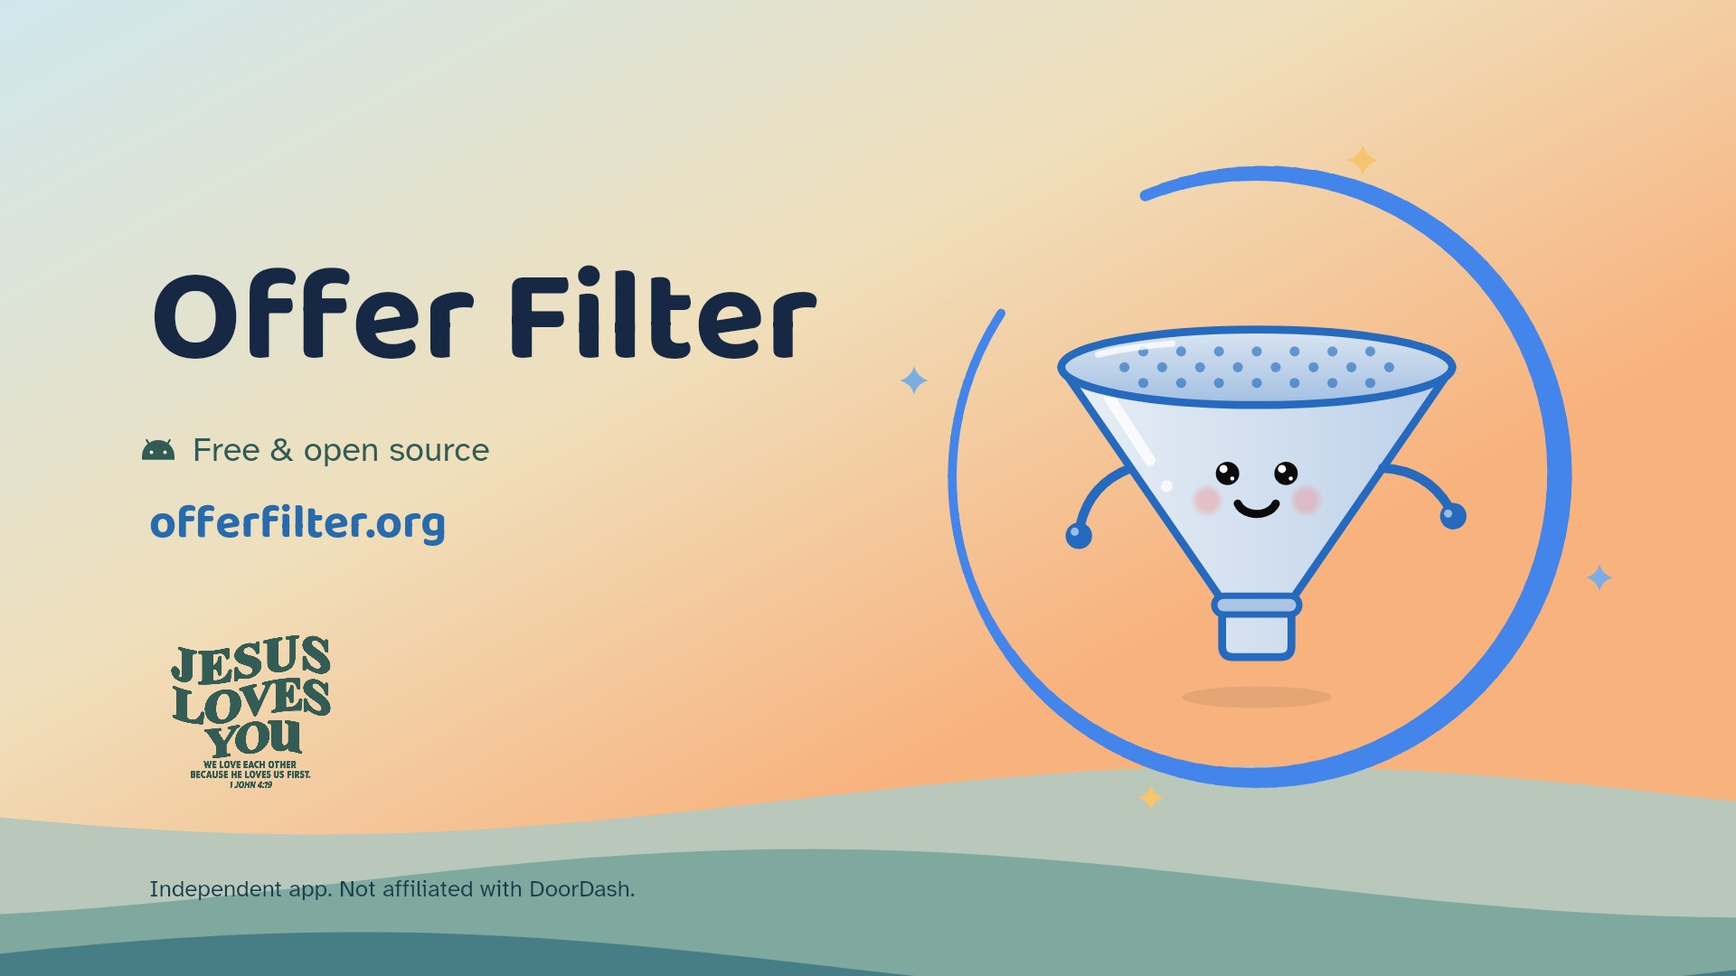
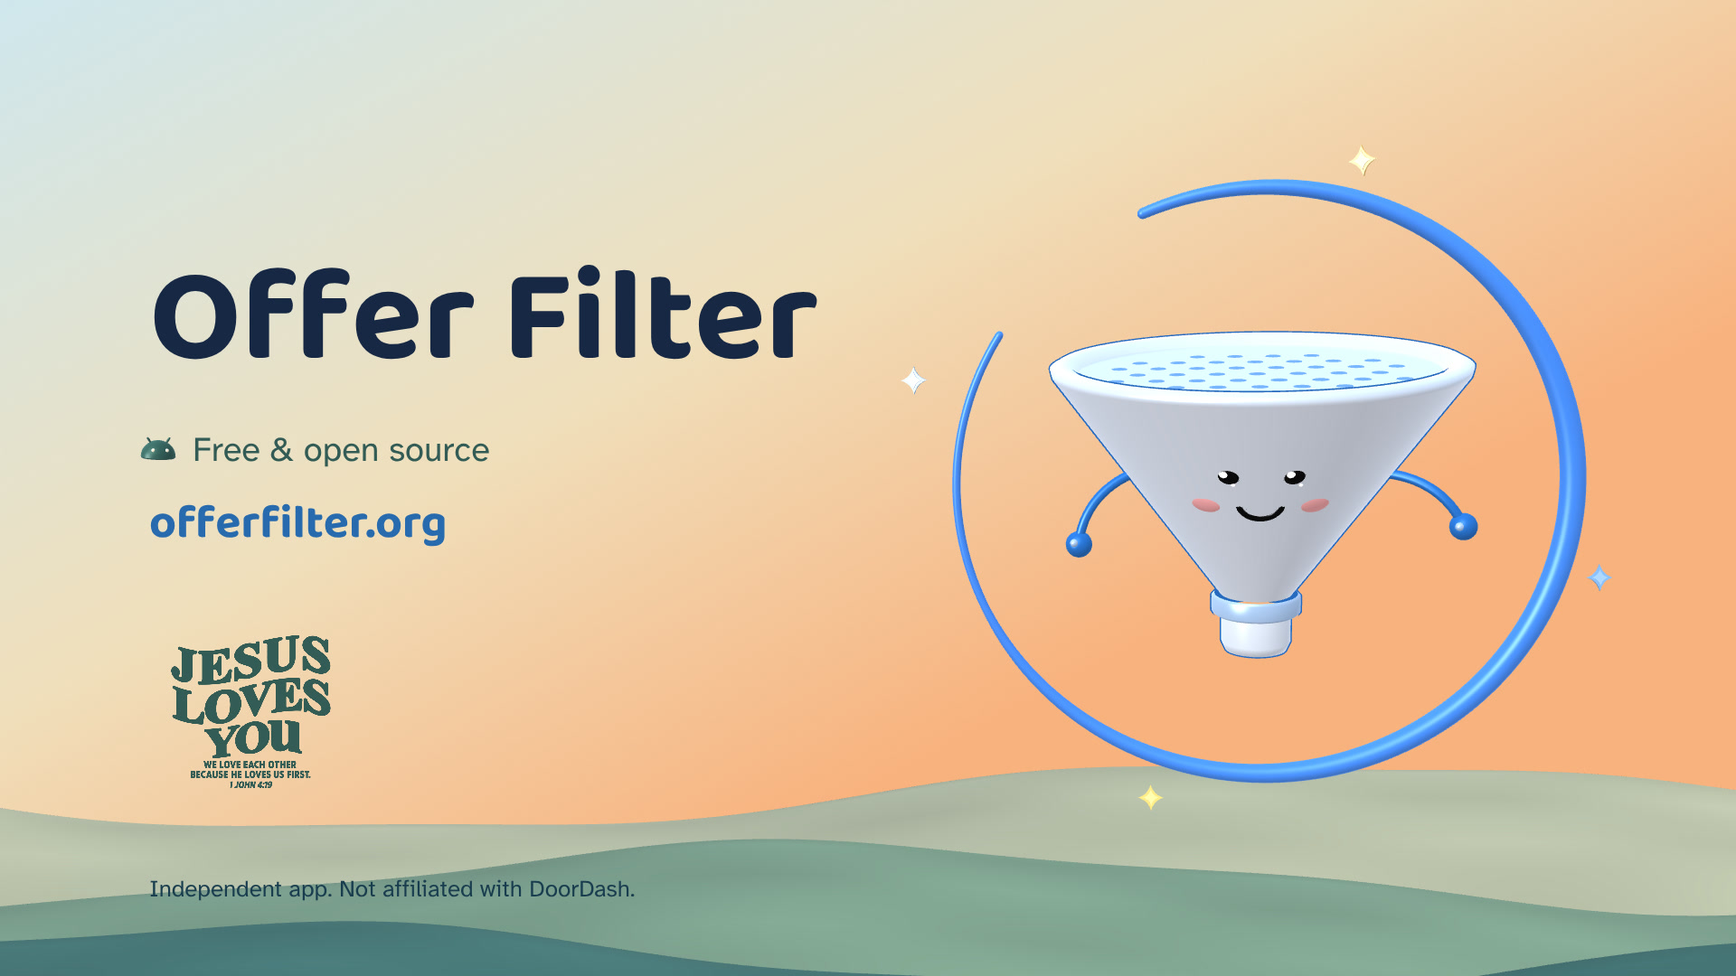
Ship the 3D site's checks and posters
The site test runs Chromium with WebGL (SwiftShader) and now checks the
page fitting a laptop screen, the new hero buttons, the footer row, the
sky button's Day/Night/System/Auto cycle, the 3D sky, and that the film's
poster is a picture with no renderer or film script until the film is
wanted; the help test sets its sky directly. tools/render-film.cjs renders
through Chromium (the 3D art needs WebGL) and writes the posters, now the
3D film's closing frame. Asset versions move to 20261007-3d.

Claude-Session: https://claude.ai/code/session_01Lt3uQNtWz76gFyR3okWbT9

diff --git a/index.html b/index.html
@@ -1,17 +1,17 @@
 <!doctype html>
-<html lang="en"><head><meta charset="UTF-8"><meta name="viewport" content="width=device-width,initial-scale=1"><meta name="theme-color" content="#efe9db"><meta name="description" content="A little calm between offers. Meet Offer Filter, the free Android companion that filters offers by your own rules."><title>Offer Filter — A little calm between offers.</title><link rel="canonical" href="https://offerfilter.org/"><meta property="og:type" content="website"><meta property="og:url" content="https://offerfilter.org/"><meta property="og:title" content="Offer Filter — A little calm between offers."><meta property="og:description" content="Filter offers by your own rules. A free, open-source Android companion."><meta property="og:image" content="https://offerfilter.org/assets/film-poster-wide.jpg?v=20261006-app"><meta property="og:image:width" content="1920"><meta property="og:image:height" content="1080"><meta property="og:image:alt" content="The Offer Filter mascot beside its name, offerfilter.org, and a Jesus Loves You emblem."><meta name="twitter:card" content="summary_large_image"><link rel="icon" type="image/png" sizes="32x32" href="assets/favicon-32.png?v=3d-20261006"><link rel="icon" type="image/png" sizes="16x16" href="assets/favicon-16.png?v=3d-20261006"><link rel="apple-touch-icon" sizes="180x180" href="assets/apple-touch-icon.png?v=3d-20261006"><link rel="preload" href="assets/baloo2-latin.woff2" as="font" type="font/woff2" crossorigin><link rel="preload" href="assets/atkinson-hyperlegible-latin.woff2" as="font" type="font/woff2" crossorigin><link rel="stylesheet" href="style.css?v=20261006-app"></head>
+<html lang="en"><head><meta charset="UTF-8"><meta name="viewport" content="width=device-width,initial-scale=1"><meta name="theme-color" content="#efe9db"><meta name="description" content="A little calm between offers. Meet Offer Filter, the free Android companion that filters offers by your own rules."><title>Offer Filter — A little calm between offers.</title><link rel="canonical" href="https://offerfilter.org/"><meta property="og:type" content="website"><meta property="og:url" content="https://offerfilter.org/"><meta property="og:title" content="Offer Filter — A little calm between offers."><meta property="og:description" content="Filter offers by your own rules. A free, open-source Android companion."><meta property="og:image" content="https://offerfilter.org/assets/film-poster-wide.jpg?v=20261007-3d"><meta property="og:image:width" content="1920"><meta property="og:image:height" content="1080"><meta property="og:image:alt" content="The Offer Filter mascot beside its name, offerfilter.org, and a Jesus Loves You emblem."><meta name="twitter:card" content="summary_large_image"><link rel="icon" type="image/png" sizes="32x32" href="assets/favicon-32.png?v=20261007-3d"><link rel="icon" type="image/png" sizes="16x16" href="assets/favicon-16.png?v=20261007-3d"><link rel="apple-touch-icon" sizes="180x180" href="assets/apple-touch-icon.png?v=20261007-3d"><link rel="preload" href="assets/baloo2-latin.woff2" as="font" type="font/woff2" crossorigin><link rel="preload" href="assets/atkinson-hyperlegible-latin.woff2" as="font" type="font/woff2" crossorigin><link rel="stylesheet" href="style.css?v=20261007-3d"></head>
 <body>
 <script>/* The sky's choice (see page.js) before the first paint, so a night visit never flashes day. */var m="AUTO",h=new Date().getHours();try{m=localStorage.getItem("offerfilter.theme")||m}catch(e){}if(m==="NIGHT"||m==="SYSTEM"&&matchMedia("(prefers-color-scheme: dark)").matches||m==="AUTO"&&(h<6||h>=18))document.body.classList.add("night")</script>
 <main class="world" id="world">
   <canvas id="landscape" aria-hidden="true"></canvas>
   <div class="atmosphere" aria-hidden="true"><i></i><i></i><i></i></div>
-  <header><a class="wordmark" href="#" aria-label="Offer Filter home"><img id="brand-mascot" src="assets/mascot-3d.webp?v=3d-20261006" width="58" height="58" alt="" decoding="async"><span>Offer Filter</span></a><div class="top-right"><button class="sky-toggle" id="sky-toggle" aria-label="Sky" title="Sky"><svg class="sky-sun" viewBox="0 0 24 24" aria-hidden="true"><circle cx="12" cy="12" r="4" fill="currentColor"/><path d="M12 1v3m0 16v3M1 12h3m16 0h3M4 4l2 2m12 12 2 2M4 20l2-2M18 6l2-2" fill="none" stroke="currentColor" stroke-width="1.5"/></svg><svg class="sky-moon" viewBox="0 0 24 24" aria-hidden="true"><path fill="currentColor" d="M18.84 15.08A7.5 7.5 0 1 1 11.31 4.53A6.5 6.5 0 0 0 18.84 15.08z"/></svg><span class="sky-badge" aria-hidden="true"></span></button><p class="sky-toast" id="sky-toast" role="status" aria-live="polite"></p></div></header>
+  <header><a class="wordmark" href="#" aria-label="Offer Filter home"><img id="brand-mascot" src="assets/mascot-3d.webp?v=20261007-3d" width="58" height="58" alt="" decoding="async"><span>Offer Filter</span></a><div class="top-right"><button class="sky-toggle" id="sky-toggle" aria-label="Sky" title="Sky"><svg class="sky-sun" viewBox="0 0 24 24" aria-hidden="true"><circle cx="12" cy="12" r="4" fill="currentColor"/><path d="M12 1v3m0 16v3M1 12h3m16 0h3M4 4l2 2m12 12 2 2M4 20l2-2M18 6l2-2" fill="none" stroke="currentColor" stroke-width="1.5"/></svg><svg class="sky-moon" viewBox="0 0 24 24" aria-hidden="true"><path fill="currentColor" d="M18.84 15.08A7.5 7.5 0 1 1 11.31 4.53A6.5 6.5 0 0 0 18.84 15.08z"/></svg><span class="sky-badge" aria-hidden="true"></span></button><p class="sky-toast" id="sky-toast" role="status" aria-live="polite"></p></div></header>
   <div class="hero-content">
   <section class="intro" aria-labelledby="headline"><h1 id="headline">Less noise.<br><em>Your next move.</em></h1><p class="lede">Filter offers by your own rules.</p><div class="app-actions"><button id="download-open" class="primary"><svg class="icon" viewBox="0 0 24 24" aria-hidden="true"><path fill="currentColor" fill-rule="evenodd" d="M3.6 17a8.4 8.4 0 0 1 16.8 0zM7.35 13.4a1.05 1.05 0 1 0 2.1 0a1.05 1.05 0 1 0-2.1 0zm7.2 0a1.05 1.05 0 1 0 2.1 0a1.05 1.05 0 1 0-2.1 0z"/><path d="M7.2 10.1 5.6 7.5m11.2 2.6 1.6-2.6" fill="none" stroke="currentColor" stroke-width="1.6" stroke-linecap="round"/></svg><span>Download for Android</span></button><a class="source-button" href="https://github.com/Dillxn/offer-filter-site/tree/app-source" target="_blank" rel="noopener noreferrer"><svg class="icon" viewBox="0 0 16 16" aria-hidden="true"><path fill="currentColor" d="M8 0c4.42 0 8 3.58 8 8a8.013 8.013 0 0 1-5.45 7.59c-.4.08-.55-.17-.55-.38 0-.27.01-1.13.01-2.2 0-.75-.25-1.23-.54-1.48 1.78-.2 3.65-.88 3.65-3.95 0-.88-.31-1.59-.82-2.15.08-.2.36-1.02-.08-2.12 0 0-.67-.22-2.2.82-.64-.18-1.32-.27-2-.27-.68 0-1.36.09-2 .27-1.53-1.03-2.2-.82-2.2-.82-.44 1.1-.16 1.92-.08 2.12-.51.56-.82 1.28-.82 2.15 0 3.06 1.86 3.75 3.64 3.95-.23.2-.44.55-.51 1.07-.46.21-1.61.55-2.33-.66-.15-.24-.6-.83-1.23-.82-.67.01-.27.38.01.53.34.19.73.9.82 1.13.16.45.68 1.31 2.69.94 0 .67.01 1.3.01 1.49 0 .21-.15.45-.55.38A7.995 7.995 0 0 1 0 8c0-4.42 3.58-8 8-8Z"/></svg><span>View on GitHub</span></a></div></section>
   <section id="film-section" class="film-section" aria-label="Offer Filter film">
-  <div class="film-stage" id="film-stage"><canvas id="film-canvas" role="img" aria-label="Offer Filter animated film" aria-describedby="film-transcript"></canvas><p class="film-cue" id="film-cue" aria-hidden="true" hidden></p><button id="film-play" class="film-play" aria-label="Play the Offer Filter film"><span aria-hidden="true">▶</span><b>Play film</b></button><div class="film-controls" id="film-controls" hidden><button type="button" data-act="toggle" aria-label="Play film"><svg viewBox="0 0 24 24" aria-hidden="true"><path class="i-play" d="M8 5.5v13l10.5-6.5z"/><path class="i-pause" d="M7 5h3.6v14H7zm6.4 0H17v14h-3.6z"/></svg></button><span class="film-time" id="film-time" aria-hidden="true">0:00 / 0:21</span><input id="film-seek" type="range" min="0" max="21" step="any" value="0" aria-label="Film position"><button type="button" data-act="captions" aria-pressed="false" aria-label="Captions"><span class="cc" aria-hidden="true">CC</span></button><button type="button" data-act="mute" aria-pressed="false" aria-label="Mute"><svg viewBox="0 0 24 24" aria-hidden="true"><path d="M4 9.2v5.6h3.6L12.5 19V5L7.6 9.2z"/><path class="i-sound" d="M15.2 8.6a4.6 4.6 0 0 1 0 6.8M17.6 6.3a7.9 7.9 0 0 1 0 11.4" fill="none" stroke="currentColor" stroke-width="1.8" stroke-linecap="round"/><path class="i-muted" d="m15.5 9.5 5 5m0-5-5 5" fill="none" stroke="currentColor" stroke-width="1.8" stroke-linecap="round"/></svg></button><button type="button" data-act="fullscreen" aria-label="Full screen"><svg viewBox="0 0 24 24" aria-hidden="true"><path class="i-enter" d="M4.5 9.5v-5h5m5 0h5v5m0 5v5h-5m-5 0h-5v-5" fill="none" stroke="currentColor" stroke-width="2"/><path class="i-exit" d="M9.5 4.5v5h-5m15 0h-5v-5m0 15v-5h5m-15 0h5v5" fill="none" stroke="currentColor" stroke-width="2"/></svg></button></div><noscript><video controls playsinline preload="none" poster="assets/film-poster-wide.jpg?v=20261006-app" width="1920" height="1080" aria-label="Offer Filter animated film"><source src="assets/offer-filter-landscape.mp4?v=20261006-app" type="video/mp4"><track kind="captions" src="assets/film-captions.vtt?v=20261006-app" srclang="en" label="English">Your browser cannot play this film. <a href="assets/offer-filter-landscape.mp4?v=20261006-app">Download the MP4.</a></video></noscript></div>
+  <div class="film-stage" id="film-stage"><canvas id="film-canvas" role="img" aria-label="Offer Filter animated film" aria-describedby="film-transcript"></canvas><p class="film-cue" id="film-cue" aria-hidden="true" hidden></p><button id="film-play" class="film-play" aria-label="Play the Offer Filter film"><span aria-hidden="true">▶</span><b>Play film</b></button><div class="film-controls" id="film-controls" hidden><button type="button" data-act="toggle" aria-label="Play film"><svg viewBox="0 0 24 24" aria-hidden="true"><path class="i-play" d="M8 5.5v13l10.5-6.5z"/><path class="i-pause" d="M7 5h3.6v14H7zm6.4 0H17v14h-3.6z"/></svg></button><span class="film-time" id="film-time" aria-hidden="true">0:00 / 0:21</span><input id="film-seek" type="range" min="0" max="21" step="any" value="0" aria-label="Film position"><button type="button" data-act="captions" aria-pressed="false" aria-label="Captions"><span class="cc" aria-hidden="true">CC</span></button><button type="button" data-act="mute" aria-pressed="false" aria-label="Mute"><svg viewBox="0 0 24 24" aria-hidden="true"><path d="M4 9.2v5.6h3.6L12.5 19V5L7.6 9.2z"/><path class="i-sound" d="M15.2 8.6a4.6 4.6 0 0 1 0 6.8M17.6 6.3a7.9 7.9 0 0 1 0 11.4" fill="none" stroke="currentColor" stroke-width="1.8" stroke-linecap="round"/><path class="i-muted" d="m15.5 9.5 5 5m0-5-5 5" fill="none" stroke="currentColor" stroke-width="1.8" stroke-linecap="round"/></svg></button><button type="button" data-act="fullscreen" aria-label="Full screen"><svg viewBox="0 0 24 24" aria-hidden="true"><path class="i-enter" d="M4.5 9.5v-5h5m5 0h5v5m0 5v5h-5m-5 0h-5v-5" fill="none" stroke="currentColor" stroke-width="2"/><path class="i-exit" d="M9.5 4.5v5h-5m15 0h-5v-5m0 15v-5h5m-15 0h5v5" fill="none" stroke="currentColor" stroke-width="2"/></svg></button></div><noscript><video controls playsinline preload="none" poster="assets/film-poster-wide.jpg?v=20261007-3d" width="1920" height="1080" aria-label="Offer Filter animated film"><source src="assets/offer-filter-landscape.mp4?v=20261007-3d" type="video/mp4"><track kind="captions" src="assets/film-captions.vtt?v=20261007-3d" srclang="en" label="English">Your browser cannot play this film. <a href="assets/offer-filter-landscape.mp4?v=20261007-3d">Download the MP4.</a></video></noscript></div>
   <p id="film-transcript" class="visually-hidden">Narration: Your time matters. Set your minimums. Offer Filter declines the offers below them. You choose the good ones. See every offer in perspective. Find your next move. Free and open source. Picture: the Offer Filter app on a phone, drawn from its source with invented offers. A finger raises the per-mile minimum, three low offers are declined, a good one passes with an alert, its ticket opens from the skyline of recent offers, and at dawn the area map shows where offers paid best.</p>
-  <audio id="film-audio" preload="none"><source src="assets/film-soundtrack.webm?v=20261006-app" type="audio/webm; codecs=opus"><source src="assets/film-soundtrack.m4a?v=20261006-app" type="audio/mp4"></audio>
+  <audio id="film-audio" preload="none"><source src="assets/film-soundtrack.webm?v=20261007-3d" type="audio/webm; codecs=opus"><source src="assets/film-soundtrack.m4a?v=20261007-3d" type="audio/mp4"></audio>
 </section>
   </div>
   <footer><nav class="footer-links" aria-label="Support"><button id="tip-open" class="tip-link">Tip <span aria-hidden="true">♡</span></button><button id="feedback-open" class="quiet-link">Feedback</button><button id="about-open" class="quiet-link">About</button><a id="help-open" class="quiet-link" href="#help">Help</a><button id="motion-toggle" class="quiet-link" aria-pressed="false">Pause motion</button></nav><div class="signature"><img src="assets/jesus-loves-you-emblem-560.png" width="560" height="442" alt="Jesus Loves You. We love each other because He loves us first. 1 John 4:19."></div></footer>
@@ -21,6 +21,6 @@
 <dialog id="about-dialog" aria-labelledby="about-title"><div class="dialog-top"><span class="eyebrow">OFFER FILTER</span><button class="close" data-close aria-label="Close about">×</button></div><h2 id="about-title">You set the pace.</h2><p>Set your minimums, or use a combined area score. Explore your offer history. Keep the learning you choose. One small companion for a long shift.</p><p>Free and open source under the <a href="https://github.com/Dillxn/offer-filter-site/blob/app-source/LICENSE" target="_blank" rel="noopener noreferrer">MIT License</a>. Tips are always optional.</p><p>The film uses invented offers to show the idea. It isn’t a recording of a verified phone run, an earnings promise, or a claim about DoorDash’s offer algorithm.</p><p class="fine-print">An early beta, still being tested on real phones. Behavior can vary with Android and Dasher updates. No safety or accessibility certification is claimed.</p></dialog>
 <dialog id="help-dialog" aria-labelledby="help-title"><div class="dialog-top"><span class="eyebrow">ANDROID · EARLY BETA</span><button class="close" data-close aria-label="Close help">×</button></div><h2 id="help-title">Start while parked.</h2><p>You do not need GitHub or any other account to download the app, receive signed updates, or send feedback.</p><ol class="setup-steps"><li>Use <a href="https://dash-offer-filter-build.onrender.com/" target="_blank" rel="noopener noreferrer">Download and setup</a> for the current signed app. Keep Android’s security checks enabled; if a warning or restriction blocks installation, stop and check the guidance rather than bypassing it.</li><li>Open Offer Filter and read the notice, including the acceptance-rate and account risks. Choose <strong>I understand and accept</strong> only if you agree.</li><li>Use the app’s setup prompts for accessibility, notification access and its own notifications. Review each Android permission. Optional location is only for the offer map.</li><li>Set your minimums, then use the mascot to start or pause filtering. Auto-accept is off unless you separately enable and confirm it. Inspect actual Dasher outcomes; an Accept request is not confirmation.</li><li>Keep the app installed for automatic updates. Android may require permission for Offer Filter to install updates. Automatic installation waits for an observed dash end; Settings → Updates is a manual check.</li></ol><h3>Something isn’t right?</h3><p>Pause with the mascot, turn off Auto-accept if enabled, and use Dasher directly. You can also disable Offer Filter’s accessibility and notification access in Android settings.</p><p><button id="help-feedback-open" class="secondary feedback-button">Send anonymous feedback</button></p><p>No name, email, GitHub account, or Offer Filter account is required. Do not include customer, delivery, payment, account, password, or token information. Network providers still handle normal connection metadata, so this is accountless feedback rather than a guarantee of mathematical anonymity.</p><p class="fine-print">This is an early beta, not a guarantee of reliability. The <a href="https://github.com/Dillxn/offer-filter-site/blob/app-source/PRIVACY.md" target="_blank" rel="noopener noreferrer">privacy notice</a> and <a href="https://github.com/Dillxn/offer-filter-site/blob/app-source/TERMS.md" target="_blank" rel="noopener noreferrer">terms</a> are still drafts pending launch review.</p></dialog>
 <dialog id="feedback-dialog" aria-labelledby="feedback-title"><div class="dialog-top"><span class="eyebrow">NO ACCOUNT REQUIRED</span><button class="close" data-close aria-label="Close feedback">×</button></div><h2 id="feedback-title">Tell us what happened.</h2><p>No name, email, GitHub account, or Offer Filter account is required. Please do not include customer, delivery, payment, account, password, or token information.</p><form id="feedback-form" class="feedback-form"><label for="feedback-category">Type</label><select id="feedback-category" name="category"><option value="general">General</option><option value="bug">Bug</option><option value="feature">Feature idea</option><option value="ux">Usability</option><option value="privacy">Privacy</option><option value="update">Update</option><option value="other">Other</option></select><label for="feedback-message">Feedback</label><textarea id="feedback-message" name="message" maxlength="4000" rows="6" required placeholder="What should we know?"></textarea><button id="feedback-submit" class="primary feedback-submit" type="submit">Send feedback</button><p id="feedback-status" class="feedback-status" role="status" aria-live="polite"></p></form><p class="fine-print">Offer Filter stores the text above, its category, and that it came from the website. Feedback expires after 90 days. The service does not store your raw IP address with the feedback record, but Supabase and network providers necessarily receive ordinary connection metadata while handling the request.</p></dialog>
-<script src="assets/gl.js?v=20261006-app"></script><script src="assets/models.js?v=20261006-app"></script><script src="scene.js?v=20261006-app"></script><script src="player.js?v=20261006-app"></script><script src="page.js?v=20261006-app"></script>
+<script src="assets/gl.js?v=20261007-3d"></script><script src="assets/models.js?v=20261007-3d"></script><script src="scene.js?v=20261007-3d"></script><script src="player.js?v=20261007-3d"></script><script src="page.js?v=20261007-3d"></script>
 </body></html>
 

diff --git a/style.css b/style.css
@@ -67,7 +67,7 @@ header{position:relative;z-index:2;flex:none;display:flex;align-items:center;jus
 
 /* The film plays live in a canvas; until someone reaches for it, its closing frame stands in as a picture. */
 .film-section{position:relative;min-width:0;scroll-margin-top:24px}
-.film-stage{position:relative;container-type:inline-size;aspect-ratio:16/9;width:100%;overflow:hidden;border-radius:12px;background:url(assets/film-poster-wide.webp?v=3d-20261007) center/cover no-repeat,linear-gradient(160deg,#d6e5e6,#efdfbd 55%,#f6b585);box-shadow:0 22px 65px #16364426}
+.film-stage{position:relative;container-type:inline-size;aspect-ratio:16/9;width:100%;overflow:hidden;border-radius:12px;background:url(assets/film-poster-wide.webp?v=20261007-3d) center/cover no-repeat,linear-gradient(160deg,#d6e5e6,#efdfbd 55%,#f6b585);box-shadow:0 22px 65px #16364426}
 .film-stage canvas{display:block;width:100%;height:100%}
 .film-stage video{position:absolute;inset:0;z-index:3;display:block;width:100%;height:100%;object-fit:contain;background:#0b1725}
 .film-video video{z-index:auto}
@@ -174,7 +174,7 @@ body.night{--ink:#d9dfd0;--halo:#1d3036;color:#e9e5d5}
 @media(min-width:1700px){.hero-content{gap:8%;width:88%;margin-top:90px;margin-bottom:130px;margin-top:clamp(16px,9svh - 8px,90px);margin-bottom:clamp(56px,15svh - 12px,130px)}}
 @media(max-width:1050px){.hero-content{gap:4%;width:100%}.intro h1{font-size:clamp(48px,5.5vw,65px)}.lede{font-size:15px}.primary,.source-button{font-size:13px;padding:14px 16px}}
 @media(max-width:850px){.world{padding:22px 6% 20px}footer{display:block}.footer-links{justify-content:center}.signature{width:min(144px,100%);margin:24px auto 12px}.wordmark{font-size:26px;gap:9px}.wordmark img{width:51px;height:51px}.hero-content{grid-template-columns:minmax(0,1fr);gap:36px;max-width:590px;margin:40px auto 90px}.intro h1{font-size:clamp(51px,9vw,72px);letter-spacing:-2.6px;margin-bottom:18px}.lede{font-size:16px;max-width:440px;line-height:1.55;margin-bottom:22px}.primary,.source-button{font-size:14px;padding:15px 18px}.footer-links{gap:8px 20px}.atmosphere i:nth-child(1){width:90vw;height:90vw}.atmosphere i:nth-child(2){width:70vw;height:70vw}}
-@media(max-width:600px){.film-stage{aspect-ratio:1;background-image:url(assets/film-poster-square.webp?v=3d-20261007),linear-gradient(160deg,#d6e5e6,#efdfbd 55%,#f6b585)}.app-actions>*{flex:1 1 auto}}
+@media(max-width:600px){.film-stage{aspect-ratio:1;background-image:url(assets/film-poster-square.webp?v=20261007-3d),linear-gradient(160deg,#d6e5e6,#efdfbd 55%,#f6b585)}.app-actions>*{flex:1 1 auto}}
 @media(max-width:480px){.world{padding-left:7%;padding-right:7%}.wordmark{font-size:24px}.wordmark img{width:46px;height:46px}.sky-toggle{width:44px;height:44px}.hero-content{margin-top:34px;margin-bottom:70px;gap:32px}.intro h1{font-size:clamp(46px,12vw,58px);letter-spacing:-2px;line-height:1.04}.lede{font-size:15px}.primary,.source-button{font-size:14px;padding:14px 16px}.tip-options a{padding:15px 11px}}
 /* The page arrives gently, and turns with the sky: while page.js marks a change of sky, colors ease over the sky's own
    sunset or sunrise. */

diff --git a/page.js b/page.js
@@ -2,7 +2,7 @@
   'use strict';
   const $ = id => document.getElementById(id);
   const FEEDBACK_ENDPOINT = 'https://zlnfvqyyjsltmkmmpgzp.supabase.co/functions/v1/offer-filter-feedback';
-  const MEDIA = '?v=20261006-app', play = $('film-play');
+  const MEDIA = '?v=20261007-3d', play = $('film-play');
   let film = window.offerFilm || videoFallback();
   // The live player (player.js) and the MP4 share one interface: play(), pause(), paused, ended and their events.
   // Without a canvas or the film script, the composed MP4 for this screen plays instead, with native controls.

diff --git a/player.js b/player.js
@@ -31,7 +31,7 @@
   }
   const audio = $('film-audio'), controls = $('film-controls'), seek = $('film-seek'), clockText = $('film-time'), cue = $('film-cue');
   const button = act => controls.querySelector(`[data-act="${act}"]`);
-  const MEDIA = '?v=20261006-app', D = +seek.max;
+  const MEDIA = '?v=20261007-3d', D = +seek.max;
   const SIZES = {landscape: [1920, 1080], square: [1080, 1080], portrait: [1080, 1920]};
   const player = new EventTarget();
   let format = 'landscape', comp = SIZES.landscape, scale = 1, ox = 0, oy = 0, visible = true;
